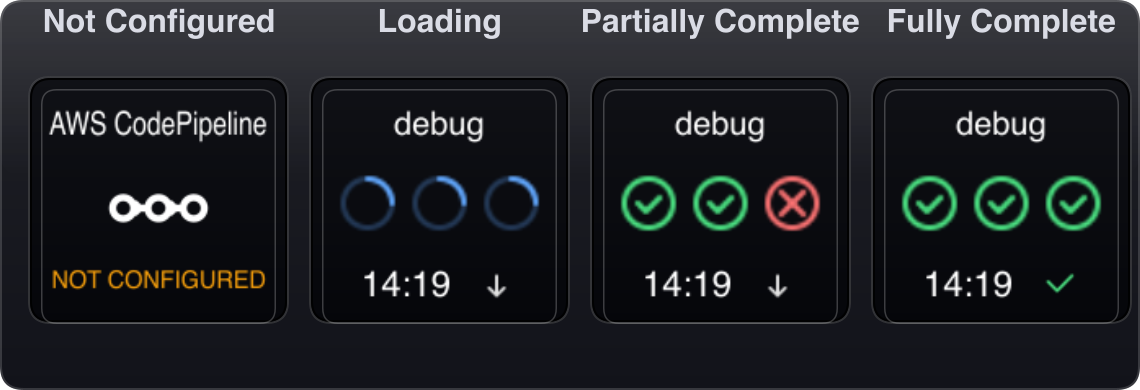
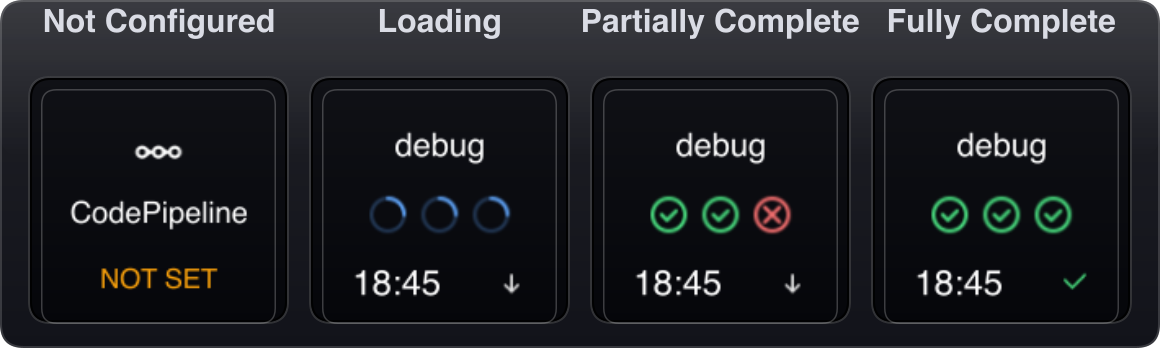
chore: update changelog, readme, and key-state images

diff --git a/README.md b/README.md
@@ -23,12 +23,19 @@ Order: `Not Configured` -> `Loading` -> `Partially Complete` -> `Fully Complete`
 
 - Real-time CodePipeline stage monitoring
 - Visual key rendering with status icons and timestamp footer
+- Optional colored border per key for environment identification (`red` / `orange` / `yellow` / `green` / `blue` / `indigo` / `violet`)
 - Status transition animation (`0.3s` loading transition on state change)
 - Long press (`1.3s`) to open pipeline in AWS Console
 - Double-click to open CloudWatch Log Group (optional)
 - Debug simulation mode (`Pipeline Name = debug`)
 - Configurable polling timeout (`Polling Max (minutes)`)
 - Independent `Pipeline Region` and `Log Group Region`
+
+### Environment Border Colors
+
+Pick a **Border Color** in the Property Inspector to frame the key — handy for telling `stage` / `release` / `production` apart at a glance. Leave it empty for no border.
+
+![Border color options](docs/images/key-states/border-colors.png)
 
 ## Requirements
 
@@ -43,7 +50,7 @@ Order: `Not Configured` -> `Loading` -> `Partially Complete` -> `Fully Complete`
 git clone https://github.com/PhantasWeng/streamdeck-aws-monitor
 cd streamdeck-aws-monitor
 npm install
-npm build:bundle
+npm run build:bundle
 npx streamdeck install com.phantas-weng.aws-monitor.sdPlugin
 ```
 
@@ -66,6 +73,7 @@ npx streamdeck install com.phantas-weng.aws-monitor.sdPlugin
 | `Pipeline Name` | Yes | CodePipeline name; set `debug` to enable simulation mode |
 | `Pipeline Region` | Yes (except debug) | Region for CodePipeline API calls |
 | `Display Name` | No | Custom key title |
+| `Border Color` | No | Environment border color (`red`/`orange`/`yellow`/`green`/`blue`/`indigo`/`violet`); empty for none |
 | `Log Group Name` | No | CloudWatch log group for double-click action |
 | `Log Group Region` | No | Region for CloudWatch log URL; defaults to pipeline region |
 | `Polling Max (minutes)` | No | Polling timeout; default `30` |
@@ -78,7 +86,7 @@ Behavior:
 - Starts with three loading stages
 - Simulates partial and full completion states
 - Uses the same rendering and transition logic as normal mode
-- Stops polling when all succeeded or timeout is reached
+- Uses the same two-speed, never-stopping polling loop as normal mode
 
 ## IAM Permissions
 
@@ -129,25 +137,27 @@ aws-monitor/
 
 ## Release Workflow
 
-Use:
+Versioning is owned by `yarn bump`; packaging is a separate step.
+
+```bash
+yarn bump <major|minor|patch|build|x.y.z.w>   # add --dry-run to preview
+```
+
+`yarn bump`:
+- Computes the next 4-part version (`major.minor.patch.build`) and writes it into `manifest.json`
+- Generates a `CHANGELOG.md` section from commits since the last tag (grouped by Conventional-Commit prefix)
+- Commits and creates an annotated tag `v<version>` (does **not** push)
+
+Push the tag to publish a GitHub Release (packing runs in CI via `.github/workflows/release.yml`):
+
+```bash
+git push && git push origin v<version>
+```
+
+For a local `.streamDeckPlugin` build (packaging only, no versioning/tag):
 
 ```bash
 yarn build
-```
-
-What it does:
-- Runs `build:bundle`
-- Shows current plugin version from `manifest.json`
-- Prompts for next version
-- Packs plugin into `releases/`
-- Creates git tag `v<version>`
-
-Notes:
-- Build stops if tag already exists.
-- Tag push is manual:
-
-```bash
-git push origin <tag>
 ```
 
 ## Screenshot Asset Generation
@@ -162,12 +172,13 @@ This regenerates `docs/images/key-states/*.png`, including `overview.png`.
 
 ## Troubleshooting
 
-- Key stays in `NOT CONFIGURED`:
+- Key stays in `NOT SET`:
   verify required fields are saved.
 - Double-click does nothing:
   check `Log Group Name` and `Log Group Region`.
-- No updates after completion:
-  polling intentionally stops when all stages are `Succeeded`; short-press to refresh.
+- Slow updates after completion:
+  once all stages settle, polling drops to a slower cadence (every `5` minutes) but keeps
+  running to auto-detect the next deployment; short-press to refresh immediately.
 
 ## Contributing
 

diff --git a/CHANGELOG.md b/CHANGELOG.md
@@ -2,6 +2,12 @@
 
 All notable changes to this project are documented in this file.
 
+## [1.2.0.0] - 2026-07-08
+
+### Features
+
+- add configurable button border color and refine button layout (aa77971)
+
 ## [1.1.0.0] - 2026-07-08
 
 ### Features
